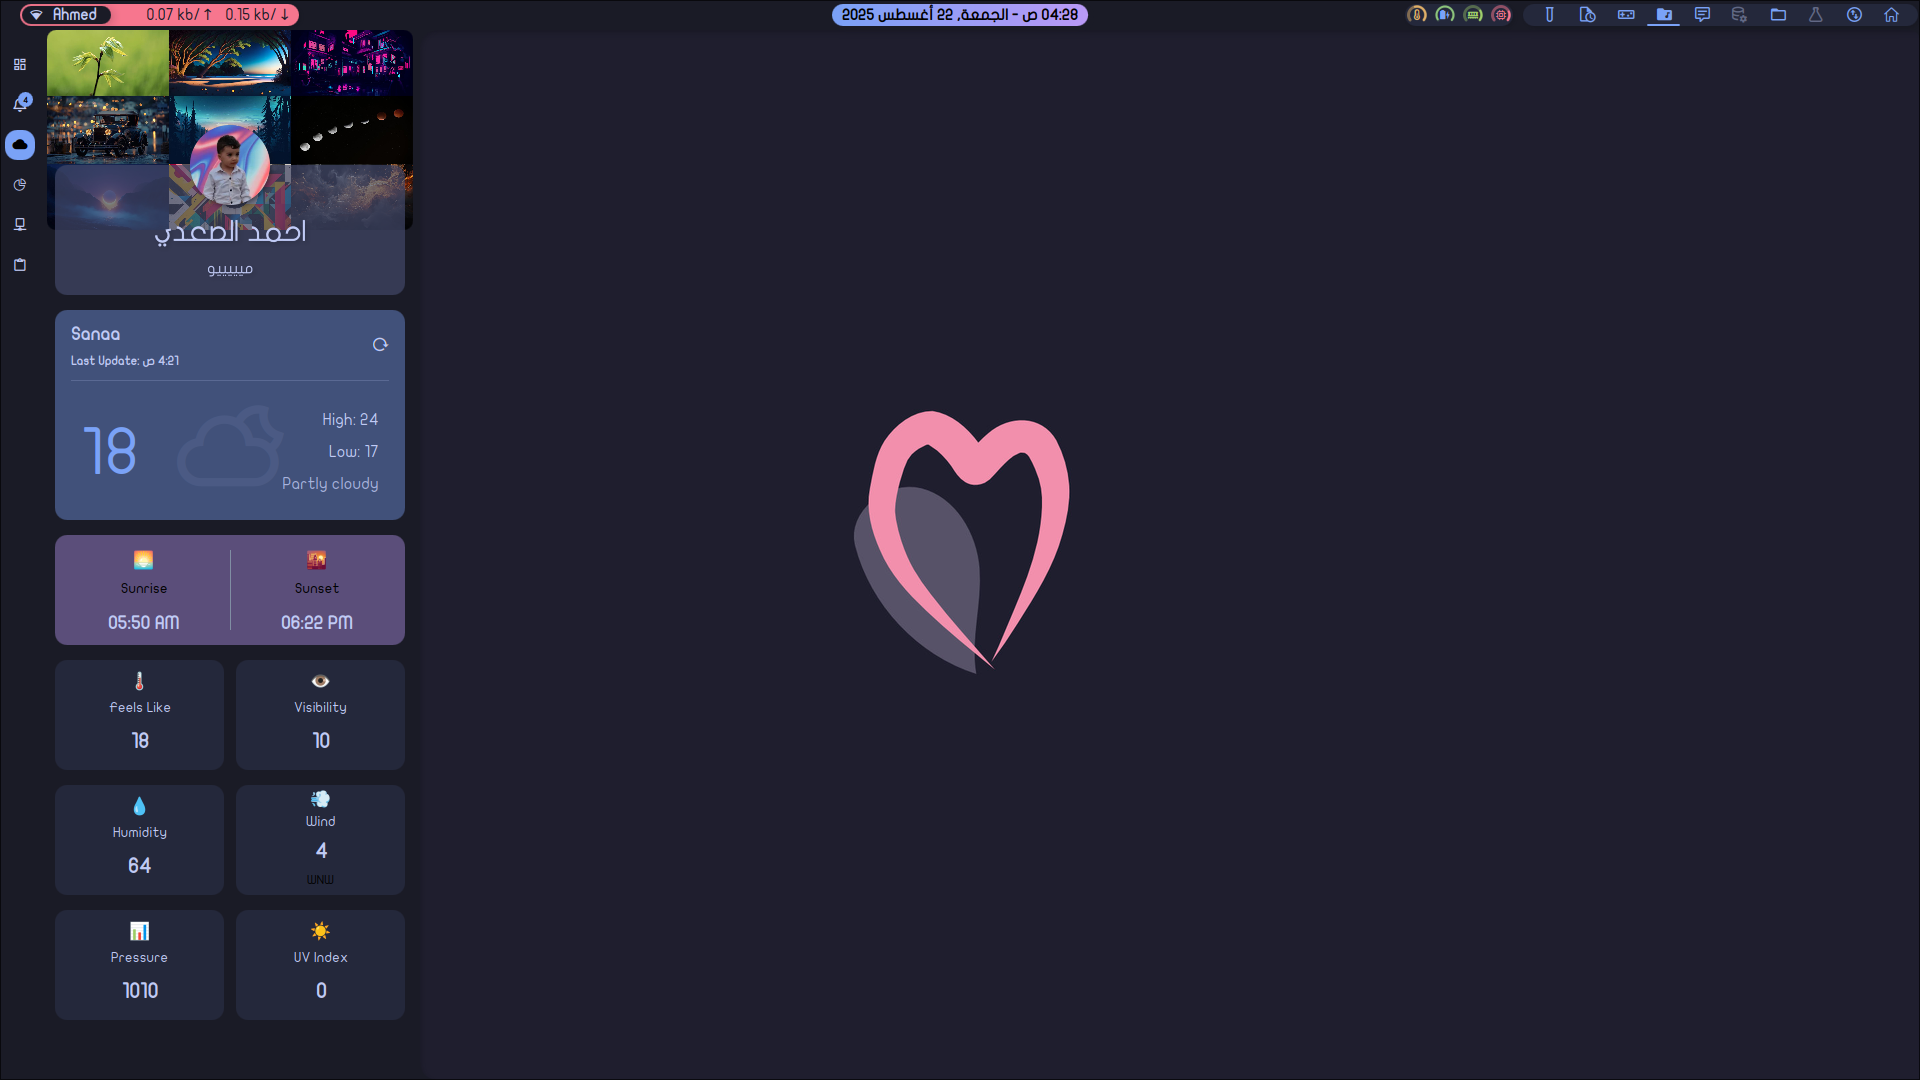
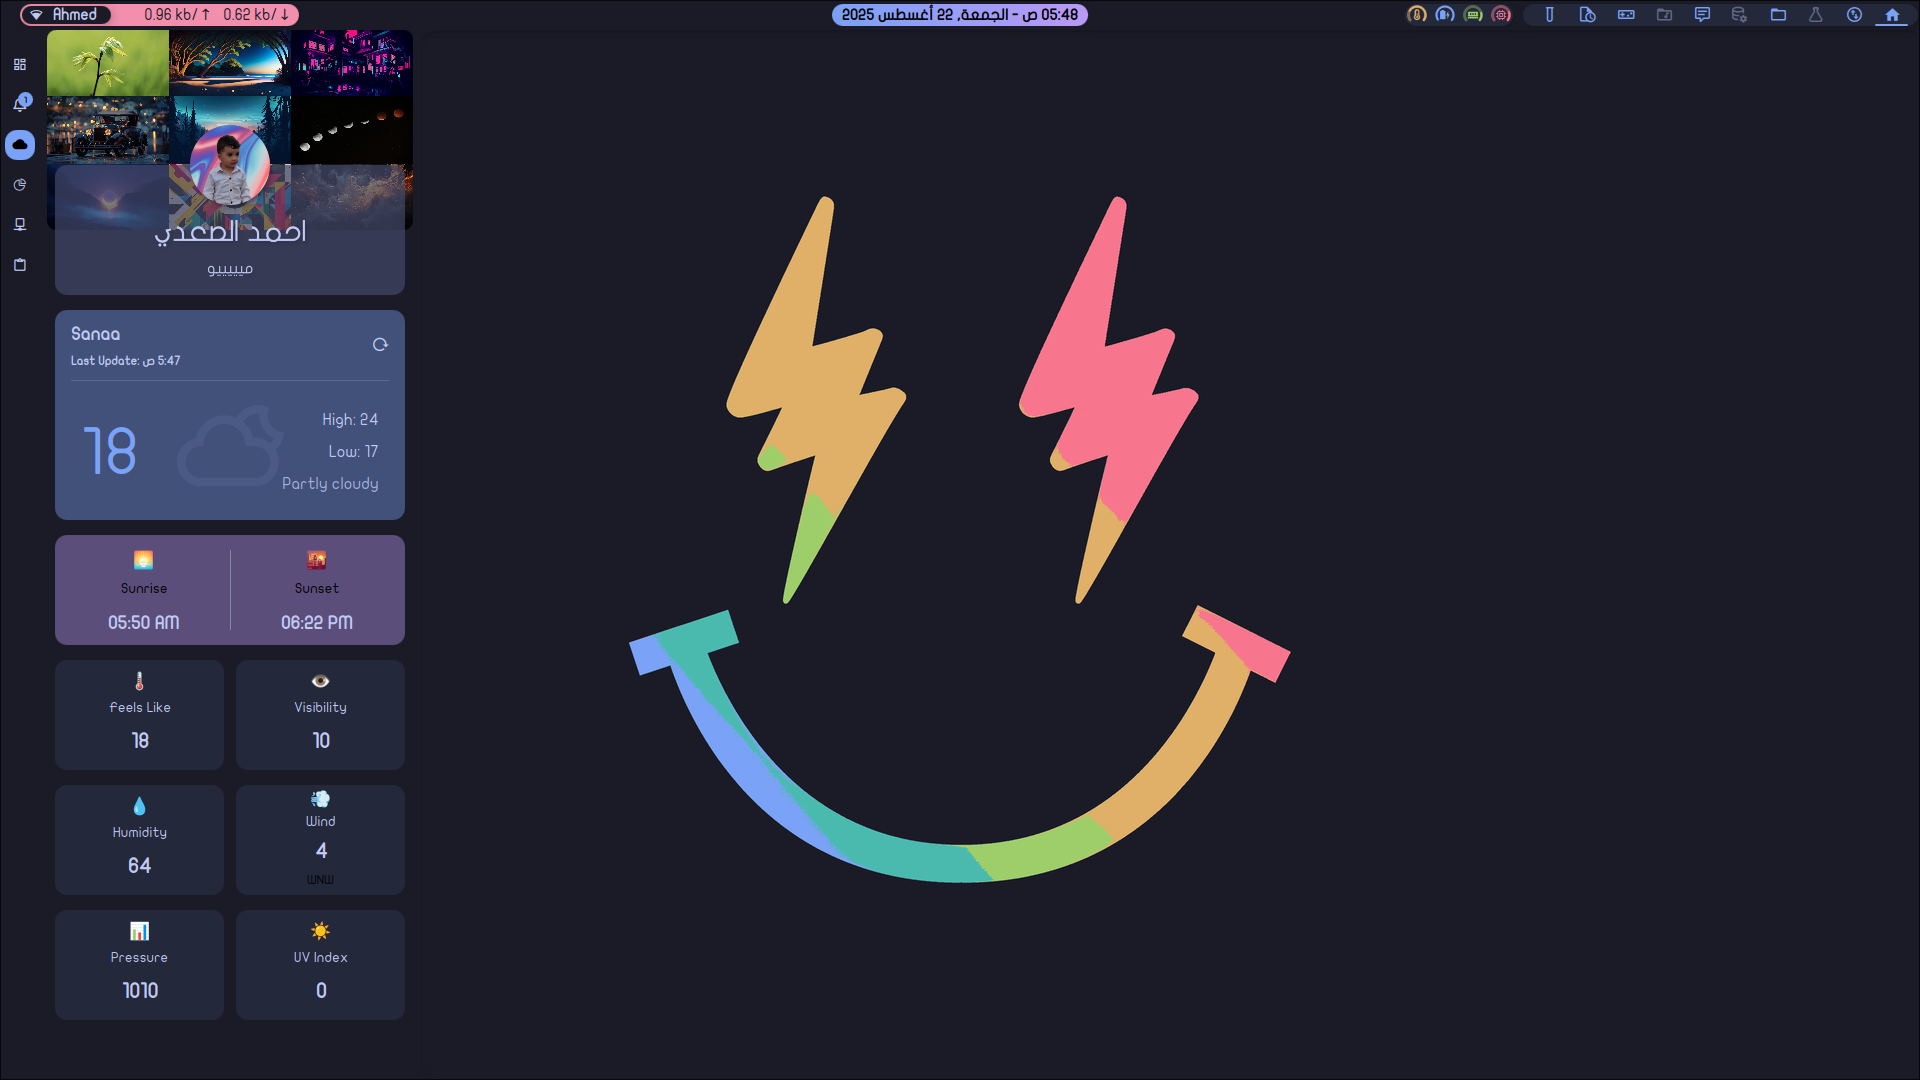
improve menu animation

diff --git a/config/quickshell/windows/leftwindow/Menus.qml b/config/quickshell/windows/leftwindow/Menus.qml
@@ -20,9 +20,9 @@ StackView {
     clip: true
     smooth: true
 
-    property int transitionDuration: 350
-    property var outEasing: Easing.OutQuad
-    property var inEasing: Easing.InQuart
+    // property int transitionDuration: 350
+    // property var outEasing: Easing.OutQuad
+    // property var inEasing: Easing.InQuart
 
     property int currentIndex: 0
     property int previousIndex: 0
@@ -101,13 +101,155 @@ StackView {
         target: LeftMenuStatus
         function onSelectedIndexTargeted(newIndex) {
             if (newIndex >= 0 && newIndex !== currentIndex) {
-                previousIndex = currentIndex;
+
+                // 2. باستخدام JavaScript، قم بتعيين الأنيميشن المناسب *قبل* استدعاء replace
+                if (newIndex > currentIndex) {
+                    // التحرك للأمام
+                    stackView.replaceEnter = enterFromBottom;
+                    stackView.replaceExit = exitToTop;
+                } else {
+                    // التحرك للخلف
+                    stackView.replaceEnter = enterFromTop;
+                    stackView.replaceExit = exitToBottom;
+                }
+
+                // 3. الآن قم بتحديث الفهرس واستدعِ replace
                 currentIndex = newIndex;
                 stackView.replace(getPage(newIndex));
             }
         }
     }
 
-    replaceEnter: ZoomIn {}
-    replaceExit: ZoomOut {}
+    Transition {
+        id: enterFromBottom
+        SequentialAnimation {
+            PropertyAction {
+                property: "opacity"
+                value: 0
+            }
+            PropertyAction {
+                property: "scale"
+                value: 0.92
+            }
+            ParallelAnimation {
+                NumberAnimation {
+                    property: "y"
+                    from: parent.height * 0.6
+                    to: 0
+                    duration: 420
+                    easing.type: Easing.OutExpo
+                }
+                NumberAnimation {
+                    property: "opacity"
+                    from: 0
+                    to: 1
+                    duration: 350
+                    easing.type: Easing.OutCubic
+                }
+                NumberAnimation {
+                    property: "scale"
+                    from: 0.92
+                    to: 1.0
+                    duration: 380
+                    easing.type: Easing.OutQuad
+                }
+            }
+        }
+    }
+
+    Transition {
+        id: exitToTop
+        ParallelAnimation {
+            NumberAnimation {
+                property: "y"
+                from: 0
+                to: -parent.height * 0.3
+                duration: 300
+                easing.type: Easing.InExpo
+            }
+            NumberAnimation {
+                property: "opacity"
+                from: 1
+                to: 0
+                duration: 280
+                easing.type: Easing.InQuad
+            }
+            NumberAnimation {
+                property: "scale"
+                from: 1.0
+                to: 0.95
+                duration: 300
+                easing.type: Easing.InCubic
+            }
+        }
+    }
+
+    // --- الدخول من الأعلى ---
+    Transition {
+        id: enterFromTop
+        SequentialAnimation {
+            PropertyAction {
+                property: "opacity"
+                value: 0
+            }
+            PropertyAction {
+                property: "scale"
+                value: 0.92
+            }
+            PropertyAction {
+                property: "y"
+                value: -parent.height * 0.3
+            }
+            ParallelAnimation {
+                NumberAnimation {
+                    property: "y"
+                    from: -parent.height * 0.3
+                    to: 0
+                    duration: 420
+                    easing.type: Easing.OutExpo
+                }
+                NumberAnimation {
+                    property: "opacity"
+                    from: 0
+                    to: 1
+                    duration: 350
+                    easing.type: Easing.OutCubic
+                }
+                NumberAnimation {
+                    property: "scale"
+                    from: 0.92
+                    to: 1.0
+                    duration: 380
+                    easing.type: Easing.OutQuad
+                }
+            }
+        }
+    }
+
+    Transition {
+        id: exitToBottom
+        ParallelAnimation {
+            NumberAnimation {
+                property: "y"
+                from: 0
+                to: parent.height * 0.6
+                duration: 300
+                easing.type: Easing.InExpo
+            }
+            NumberAnimation {
+                property: "opacity"
+                from: 1
+                to: 0
+                duration: 280
+                easing.type: Easing.InQuad
+            }
+            NumberAnimation {
+                property: "scale"
+                from: 1.0
+                to: 0.95
+                duration: 300
+                easing.type: Easing.InCubic
+            }
+        }
+    }
 }

diff --git a/config/quickshell/windows/leftwindow/animations/SlideFadeIn_Vertical_FromTop.qml b/config/quickshell/windows/leftwindow/animations/SlideFadeIn_Vertical_FromTop.qml
@@ -1,0 +1,37 @@
+// animations/SlideFadeIn_Vertical_FromTop.qml
+import QtQuick
+
+Transition {
+
+    SequentialAnimation {
+        PropertyAction {
+            property: "opacity"
+            value: 0
+        }
+        PropertyAction {
+            property: "y"
+            value: -parent.height / 3
+        }
+
+        // ثانيًا، قم بتشغيل الأنيميشن لإظهاره
+        ParallelAnimation {
+            // 1. حرك العنصر من الأعلى إلى مكانه الأصلي (y=0)
+            NumberAnimation {
+                property: "y"
+                from: -parent.height / 3
+                to: 0
+                duration: 350
+                // استخدم Easing مناسب للدخول (يبدأ سريعًا ويتباطأ)
+                easing.type: Easing.OutCubic
+            }
+            // 2. اجعل العنصر يظهر تدريجيًا أثناء حركته
+            NumberAnimation {
+                property: "opacity"
+                from: 0
+                to: 1
+                duration: 350
+                easing.type: Easing.OutQuad
+            }
+        }
+    }
+}

diff --git a/config/quickshell/windows/leftwindow/animations/SlideFadeOut_Vertical_ToBottom.qml b/config/quickshell/windows/leftwindow/animations/SlideFadeOut_Vertical_ToBottom.qml
@@ -1,0 +1,26 @@
+// animations/SlideFadeOut_Vertical_ToBottom.qml
+import QtQuick
+
+Transition {
+    // هذا الأنيميشن مخصص للعنصر الذي يخرج من العرض
+
+    ParallelAnimation {
+        // 1. حرك العنصر من مكانه الحالي (y=0) إلى أسفل الشاشة
+        NumberAnimation {
+            property: "y"
+            from: 0
+            to: parent.height
+            duration: 350
+            // استخدم Easing مناسب للخروج (يبدأ بطيئًا ويتسارع)
+            easing.type: Easing.InCubic
+        }
+        // 2. اجعل العنصر يختفي تدريجيًا أثناء حركته
+        NumberAnimation {
+            property: "opacity"
+            from: 1
+            to: 0
+            duration: 350
+            easing.type: Easing.InQuad
+        }
+    }
+}

diff --git a/config/quickshell/windows/leftwindow/animations/SlideFadeIn_Vertical.qml b/config/quickshell/windows/leftwindow/animations/SlideFadeIn_Vertical.qml
@@ -1,0 +1,30 @@
+// animations/SlideFadeIn_Vertical.qml
+import QtQuick
+
+Transition {
+
+    SequentialAnimation {
+        PropertyAction {
+            property: "opacity"
+            value: 0
+        }
+
+        ParallelAnimation {
+            NumberAnimation {
+                property: "y"
+                from: parent.height
+                to: 0
+                duration: 350
+                easing.type: Easing.OutCubic
+            }
+            // اجعل العنصر يظهر تدريجيًا
+            NumberAnimation {
+                property: "opacity"
+                from: 0
+                to: 1
+                duration: 300 // أقصر قليلاً لإنهاء التلاشي قبل نهاية الحركة
+                easing.type: Easing.OutQuad
+            }
+        }
+    }
+}

diff --git a/config/quickshell/windows/leftwindow/animations/SlideFadeOut_Vertical.qml b/config/quickshell/windows/leftwindow/animations/SlideFadeOut_Vertical.qml
@@ -1,0 +1,24 @@
+// animations/SlideFadeOut_Vertical.qml
+import QtQuick
+
+Transition {
+
+    ParallelAnimation {
+        // حرك العنصر من مكانه إلى أعلى الشاشة
+        NumberAnimation {
+            property: "y"
+            from: 0
+            to: -parent.height / 3 // تحريكه لجزء من الشاشة فقط يجعله أسرع وأكثر سلاسة
+            duration: 350
+            easing.type: Easing.InCubic
+        }
+        // اجعل العنصر يختفي تدريجيًا
+        NumberAnimation {
+            property: "opacity"
+            from: 1
+            to: 0
+            duration: 350
+            easing.type: Easing.InQuad
+        }
+    }
+}

diff --git a/config/quickshell/windows/leftwindow/animations/SlideOverIn_Horizontal.qml b/config/quickshell/windows/leftwindow/animations/SlideOverIn_Horizontal.qml
@@ -1,0 +1,23 @@
+// animations/SlideOverIn_Horizontal.qml
+import QtQuick
+
+Transition {
+    ParallelAnimation {
+        // حرك الصفحة الجديدة من اليمين إلى مكانها
+        NumberAnimation {
+            property: "x"
+            from: parent.width
+            to: 0
+            duration: 400
+            easing.type: Easing.OutQuint // Easing حاد يعطي شعورًا بالسرعة ثم التباطؤ
+        }
+        // اجعلها تظهر أثناء الانزلاق
+        NumberAnimation {
+            property: "opacity"
+            from: 0
+            to: 1
+            duration: 250
+            easing.type: Easing.OutQuad
+        }
+    }
+}

diff --git a/config/quickshell/windows/leftwindow/animations/SlideOverOut_Horizontal.qml b/config/quickshell/windows/leftwindow/animations/SlideOverOut_Horizontal.qml
@@ -1,0 +1,24 @@
+// animations/SlideOverOut_Horizontal.qml
+import QtQuick
+
+Transition {
+
+    ParallelAnimation {
+        // حرك الصفحة القديمة قليلاً إلى اليسار (لإعطاء تأثير العمق)
+        NumberAnimation {
+            property: "x"
+            from: 0
+            to: -parent.width / 4
+            duration: 400
+            easing.type: Easing.OutQuint
+        }
+        // اجعلها تختفي
+        NumberAnimation {
+            property: "opacity"
+            from: 1
+            to: 0
+            duration: 400
+            easing.type: Easing.OutQuad
+        }
+    }
+}

diff --git a/config/quickshell/windows/leftwindow/dashboard/Dashboard.qml b/config/quickshell/windows/leftwindow/dashboard/Dashboard.qml
@@ -1,4 +1,4 @@
-// windows/leftwindow/dashboard/Dashboard.qml (النسخة النهائية الصحيحة)
+// windows/leftwindow/dashboard/Dashboard.qml
 
 import QtQuick
 import QtQuick.Controls
@@ -8,10 +8,11 @@ import "root:/components"
 
 ScrollView {
     id: dashboardScroller
-    anchors.fill: parent
-
+    width: parent.width
+    height: parent.height
     clip: true
-    contentWidth: availableWidth
+    // anchors.fill: parent
+    // contentWidth: availableWidth
 
     ScrollBar.vertical: StyledScrollBar {
         interactive: false

diff --git a/config/quickshell/services/Weather.qml b/config/quickshell/services/Weather.qml
@@ -366,10 +366,10 @@ Singleton {
         }
 
         if (maxRain > 50) {
-            chanceOfRainNotified(`High chance of rain today, up to ${maxRain}%`);
+            chanceOfRainNotified(`Max chance of rain today, up to ${maxRain}%`);
         }
         if (maxSnow > 20) {
-            chanceOfSnowNotified(`Chance of snow today is ${maxSnow}%`);
+            chanceOfSnowNotified(`Max chance of snow today is ${maxSnow}%`);
         }
         if (maxFrost > 50) {
             chanceOfFrostNotified(`Warning: Chance of frost is ${maxFrost}%`);

diff --git a/config/quickshell/services/NotifManager.qml b/config/quickshell/services/NotifManager.qml
@@ -100,9 +100,9 @@ Singleton {
 
             summary = notification.summary;
             body = notification.body;
-            appIcon = notification.appIcon;
+            appIcon = notification.appIcon.replace("file://", "");
             appName = notification.appName;
-            image = notification.image;
+            image = notification.image.replace("file://", "");
             notifId = notification.id;
 
             var newActions = [];

diff --git a/config/quickshell/windows/leftwindow/monitoring/Main.qml b/config/quickshell/windows/leftwindow/monitoring/Main.qml
@@ -11,6 +11,7 @@ Rectangle {
     objectName: "monitoring"
     color: "transparent"
     implicitHeight: Screen.height - ThemeManager.selectedTheme.dimensions.barHeight
+
     // width: ThemeManager.selectedTheme.dimensions.menuWidth
     // spacing: ThemeManager.selectedTheme.dimensions.menuWidgetsSpacing
 
